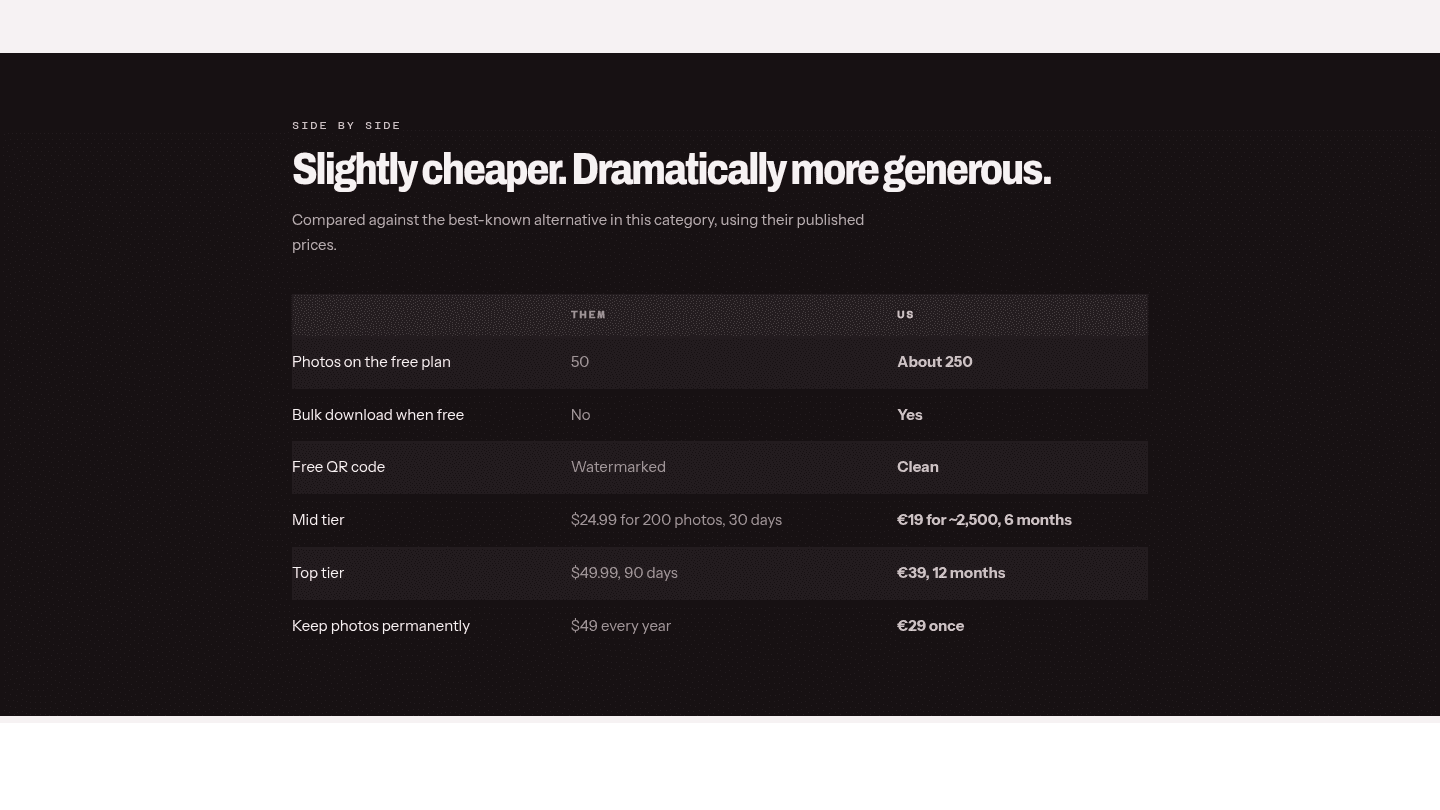
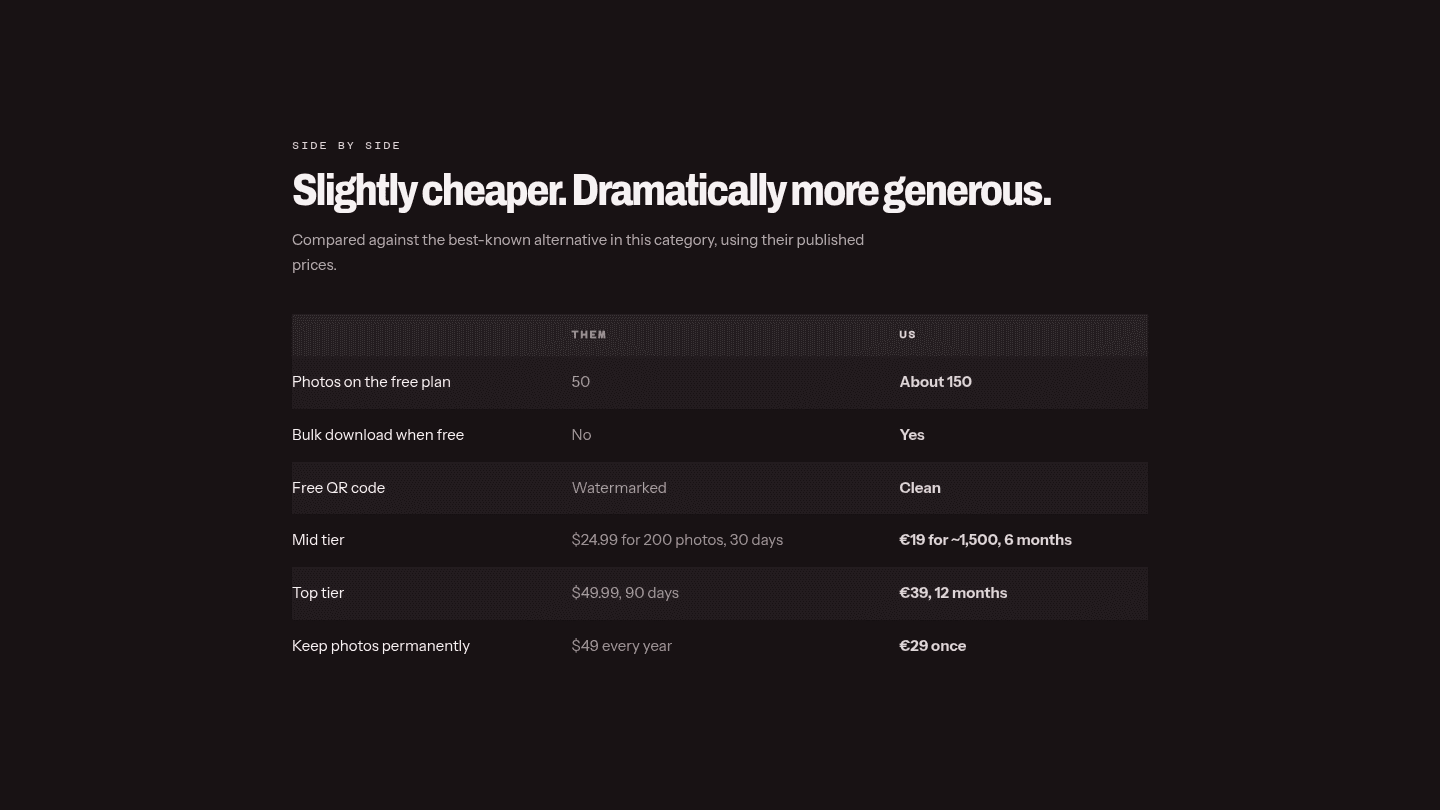
Refresh Shot & Share product page from the live site
Re-captured all five product screenshots from shotandshare.com and
shotandshare.com/pricing, and brought the case study copy in line with
the current site.

Copy changes:
- Plans renamed Frame/Roll/Reel -> Free/Plus/Pro, with the current
  feature lists (Pro now lists unlimited guests and 500 MB video)
- Storage estimates updated to the site's 7 MB-per-photo basis:
  1 GB ~ 150 photos, 10 GB ~ 1,500, 30 GB ~ 4,400
- "The Archive" add-on renamed to "Keep Forever" throughout
- Tagline updated to the current hero line
- Live slideshow noted as Pro-only; video split 200 MB (Plus) /
  500 MB (Pro)

Images are all 1440x810 so they fill the carousel's aspect-video stage
without being cropped, and are palettised, which drops the set from
~670 KB to ~320 KB.

Claude-Session: https://claude.ai/code/session_01UmAXfUheX3RjgvBfz81E3y

diff --git a/components/Products/productsData.ts b/components/Products/productsData.ts
@@ -717,15 +717,15 @@ const productsData: Product[] = [
   {
     id: "shot-and-share",
     name: "Shot & Share",
-    tagline: "Every Photo Your Guests Take",
+    tagline: "Let Your Guests Capture the Moments You Miss",
     category: "SaaS · Event Photo Collection",
     status: "live",
     launchYear: "2026",
     visible: true,
     briefDescription:
-      "QR-code photo collection for events. Guests scan a code on the table and their photos land in one gallery - no app, no account, nothing to install.",
+      "QR-code photo collection for events. Guests scan a code on the table and hand you their photos - no app, no account, nothing to install.",
     fullDescription:
-      "Shot & Share is a photo collection platform for weddings, birthdays, and company events. The host creates an event, gets a link and a printable QR card straight away, and puts it on the tables. Guests point a phone camera at it, pick their photos, and upload - there is no sign-in prompt anywhere on the guest side, because every sign-in prompt is a guest who never hands their photos over. Everything arrives in one gallery the host can download as a single ZIP. Plans are paid once per event rather than by subscription, and limits are measured in gigabytes instead of photo counts, so a recent phone with large files is not punished.",
+      "Shot & Share is a photo collection platform for weddings, birthdays, and company events. The host creates an event, gets a link and a card to print straight away, and puts it on the tables. Guests point a phone camera at it, pick their photos, and upload - there is no sign-in prompt anywhere on the guest side, because every sign-in prompt is a guest who never hands their photos over. Everything lands in one gallery that fills all night and comes down as a single file in the morning. Plans are paid once per event rather than by subscription, and limits are measured in gigabytes instead of photo counts, so a recent phone with large files is not punished.",
     images: [
       "/images/solutions/shot-and-share/shot-and-share-banner.png",
       "/images/solutions/shot-and-share/shot-and-share-how-it-works.png",
@@ -746,12 +746,13 @@ const productsData: Product[] = [
       {
         label: "Free Plan",
         value: "1 GB",
-        description: "About 250 photos, clean QR code, bulk ZIP download",
+        description: "About 150 photos, clean QR code, bulk ZIP download",
       },
       {
         label: "Keep Forever",
         value: "€29 Once",
-        description: "The Archive add-on is one-off, never an annual charge",
+        description:
+          "Permanent storage as a one-off add-on, never a yearly charge",
       },
       {
         label: "Grace Period",
@@ -771,16 +772,16 @@ const productsData: Product[] = [
       "Vercel",
     ],
     functionalities: [
-      "Event creation with an instant share link and printable QR card",
+      "Event creation with an instant share link and a QR card to print",
       "Account-free guest upload straight from the phone browser",
       "Shared live gallery that fills as guests upload, toggleable per event",
-      "Photo and video uploads, up to 200 MB a clip on paid plans",
+      "Photo and video uploads, up to 200 MB a clip on Plus and 500 MB on Pro",
       "Bulk ZIP download of every file in one go",
       "Revocable upload links - kill a leaked link and issue a fresh one",
       "Storage-based quotas with reservation before upload, so limits never overrun",
       "Expiry warnings at 14, 7 and 1 days, then a pause-and-restore window",
-      "The Archive add-on to keep an event's media permanently",
-      "Live slideshow at the venue, driven from any laptop and projector",
+      "The Keep Forever add-on to keep an event's media permanently",
+      "Live slideshow at the venue on Pro, driven from any laptop and projector",
       "Custom event pages with themes, cover images, and multiple albums",
     ],
     keyFeatures: [
@@ -824,10 +825,10 @@ const productsData: Product[] = [
     ],
     pricing: [
       {
-        name: "Frame",
+        name: "Free",
         price: "Free",
         features: [
-          "1 GB of storage, about 256 photos",
+          "1 GB of storage, about 150 photos",
           "Unlimited guests",
           "Photos kept for 30 days",
           "Photos only",
@@ -836,24 +837,27 @@ const productsData: Product[] = [
         ],
       },
       {
-        name: "Roll",
+        name: "Plus",
         price: "€19",
         highlight: true,
         features: [
-          "10 GB of storage, about 2,560 photos",
+          "10 GB of storage, about 1,500 photos",
           "Unlimited guests",
           "Photos kept for 6 months",
           "Video, up to 200 MB a clip",
           "Bulk ZIP download",
+          "Clean QR code, no watermark",
           "Custom event page",
         ],
       },
       {
-        name: "Reel",
+        name: "Pro",
         price: "€39",
         features: [
-          "30 GB of storage, about 7,680 photos",
+          "30 GB of storage, about 4,400 photos",
+          "Unlimited guests",
           "Photos kept for 12 months",
+          "Video, up to 500 MB a clip",
           "Branded, print-ready QR card",
           "Live slideshow at the venue",
           "Multiple albums",
@@ -880,18 +884,18 @@ const productsData: Product[] = [
       {
         phase: "Launch",
         detail:
-          "Shipped one-off per-event pricing with a genuinely usable free tier and The Archive add-on for permanent storage.",
+          "Shipped one-off per-event pricing with a genuinely usable free tier and the Keep Forever add-on for permanent storage.",
       },
     ],
     challenge:
       "After an event, the photos that matter are on other people's phones. Chasing them means group chats, half-finished airdrops, and compressed screenshots - and the tools built to solve it make it worse by asking every guest to install an app or create an account before they can upload. Free tiers cap you at fifty photos, watermark the QR code, and block bulk download, while permanent storage is sold as a subscription that people forget to renew until the photos are gone.",
     solution:
-      "Shot & Share removes every step between a guest and their upload. Scanning the QR code opens a single browser screen with no sign-in prompt, and the photos land in the host's gallery immediately. Quotas are counted in gigabytes rather than photos, so a modern phone's file sizes are not penalised, and upload space is reserved before a transfer starts so an event can never silently overrun. Links are revocable, expiry is announced 14, 7 and 1 days ahead and then pauses the event rather than deleting it, and The Archive add-on keeps everything permanently for a single €29 payment instead of a yearly charge.",
+      "Shot & Share removes every step between a guest and their upload. Scanning the QR code opens a single browser screen with no sign-in prompt, and the photos land in the host's gallery immediately. Quotas are counted in gigabytes rather than photos, so a modern phone's file sizes are not penalised, and upload space is reserved before a transfer starts so an event can never silently overrun. Links are revocable, expiry is announced 14, 7 and 1 days ahead and then pauses the event rather than deleting it, and the Keep Forever add-on keeps everything permanently for a single €29 payment instead of a yearly charge.",
     results: [
       "Removed the account and app-install step that stops most guests uploading",
-      "Made the free tier a working product - about 250 photos, clean QR code, bulk download",
-      "Replaced photo-count caps with storage quotas, roughly 12x more photos at the mid tier",
-      "Turned permanent storage into a one-off €29 payment instead of a recurring fee",
+      "Made the free tier a working product - about 150 photos, clean QR code, bulk download",
+      "Replaced photo-count caps with storage quotas - about 1,500 photos at the mid tier against 200",
+      "Turned permanent storage into a one-off €29 payment instead of a yearly charge",
       "Made expiry recoverable, with staged warnings and a 14-day restore window",
       "Gave hosts a kill switch for shared links without rebuilding the event",
     ],
@@ -904,7 +908,7 @@ const productsData: Product[] = [
       {
         question: "What happens when the storage window ends?",
         answer:
-          "Emails go out 14, 7 and 1 days beforehand. When it ends the event is paused rather than deleted, and stays restorable for another 14 days. Add The Archive at any point and nothing is ever removed.",
+          "Emails go out 14, 7 and 1 days beforehand. When it ends the event is paused rather than deleted, and stays restorable for another 14 days. Add Keep Forever at any point and nothing is ever removed.",
       },
       {
         question: "Can I stop people uploading?",
@@ -914,7 +918,7 @@ const productsData: Product[] = [
       {
         question: "How many photos actually fit?",
         answer:
-          "Roll holds about 2,500 and Reel about 7,500, based on a 4 MB photo. Modern phones vary, which is exactly why the limit is in gigabytes rather than a photo count.",
+          "Plus holds about 1,500 and Pro about 4,400, based on a 7 MB photo. Modern phones vary, which is exactly why the limit is in gigabytes rather than a photo count.",
       },
       {
         question: "Can guests see what everyone else uploaded?",
@@ -924,7 +928,7 @@ const productsData: Product[] = [
       {
         question: "Is video included?",
         answer:
-          "On the paid plans, up to 200 MB a clip. The free plan is photos only - one large video would eat the entire free allowance.",
+          "On the paid plans: up to 200 MB a clip on Plus, and up to 500 MB on Pro. The free plan is photos only - one large video would eat the entire free allowance.",
       },
     ],
   },
